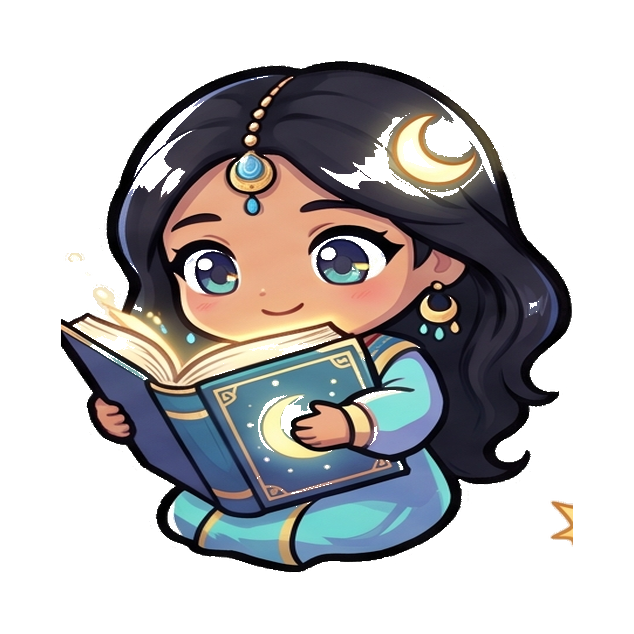
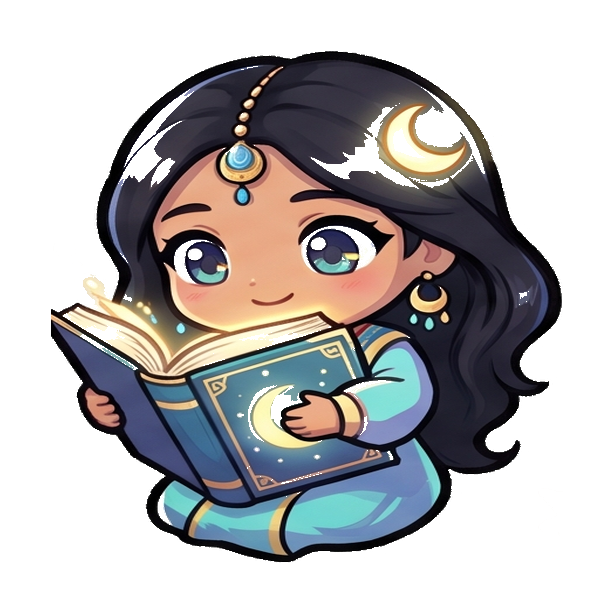
히든아바타 가운데 정렬
[cache: bookquest-v20260424143942]

Changed region(s): [[0.0619, 0.0619, 0.9283, 0.9283], [0.8664, 0.7736, 0.9283, 0.8664]]

diff --git a/sw.js b/sw.js
@@ -5,7 +5,7 @@
 // (it replaces `bookquest-v<ts>` with a fresh timestamp), so
 // browsers detect sw.js bytes differ and install the new SW.
 // ═══════════════════════════════════════════════════════
-const CACHE_NAME = 'bookquest-v20260424142154';
+const CACHE_NAME = 'bookquest-v20260424143942';
 
 // Only precache files that actually exist at repo root.
 const ASSETS_TO_CACHE = [
